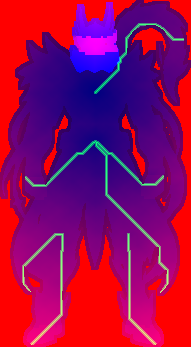
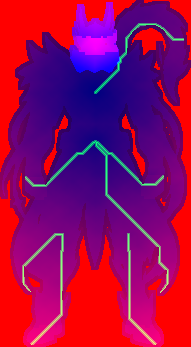
Rexonance skin: the face closes in one motion (head field spread by rank)
The head's growth field had two empty value bands (the rows the face
fills carry almost no shell cells; the face's closure started near 0.76,
not at SKIN_FACE_FROM), so the liquid front swept them with nothing to
cover: the jaw finished, a hold, the skull; the shell finished, a hold,
the face. Each head segment's values are now spread by rank (order and
isolines kept, start and seam unchanged), the face picking up at the
value the shell ends on. Re-baked field.png and the HUD marks (HEAD
1429 -> 1451 ms entry, 0.632 -> 0.643 scroll). The scroll swarm's
last-flock probe moves 0.68 -> 0.67 (the visor flocks dock with the
skin's front, now a little earlier).

Changed region(s): [[0.3665, 0.0288, 0.6021, 0.1153], [0.3665, 0.1153, 0.6283, 0.2017]]

diff --git a/src/lib/rexonance-suit-skin-field.ts b/src/lib/rexonance-suit-skin-field.ts
@@ -205,6 +205,28 @@ const HAND_FOOT_OFFSET = 0.04;
  * over the rest. */
 export const SKIN_FACE_FROM = 0.72;
 
+/** Spreads the head's shell values evenly over [their min, SKIN_FACE_FROM]
+ * and the face's over [SKIN_FACE_FROM, their max], each by rank (see the
+ * call in buildSkinField). In place; ties keep the cells' own order. */
+function evenHeadField(
+  field: Float32Array,
+  head: ArrayLike<number>,
+  region: ArrayLike<number>,
+  face: number,
+) {
+  for (const isFace of [false, true]) {
+    const cells: number[] = [];
+    for (let i = 0; i < field.length; i += 1)
+      if (head[i] && field[i] >= 0 && (region[i] === face) === isFace) cells.push(i);
+    if (cells.length < 2) continue;
+    cells.sort((a, b) => field[a] - field[b] || a - b);
+    const lo = isFace ? SKIN_FACE_FROM : field[cells[0]];
+    const hi = isFace ? Math.max(field[cells[cells.length - 1]], SKIN_FACE_FROM) : SKIN_FACE_FROM;
+    const last = cells.length - 1;
+    for (let k = 0; k <= last; k += 1) field[cells[k]] = lo + ((hi - lo) * k) / last;
+  }
+}
+
 /** Bakes the growth field (see the header). Pure: typed arrays in and out. */
 export function buildSkinField(input: SkinFieldInput): SkinBake {
   const { w, h, alpha } = input;
@@ -483,6 +505,20 @@ export function buildSkinField(input: SkinFieldInput): SkinBake {
     // The seed itself is the front's first cell.
     field[i] = Math.min(1, Math.max(0, t));
   }
+
+  // The head closes as one motion (owner, 2026-11-21: 「レクソナンスの顔は上下
+  // が完成してから僅かに間が空く…シームレスに顔が完成していない」). The shell's
+  // rise is by row over the whole head, but the rows the face fills carry
+  // almost no shell cells, so the shell's values had a hole (~0.27–0.36:
+  // the jaw done, nothing, then the skull); and the face's closure started
+  // near 0.76, not at SKIN_FACE_FROM (the shell done, nothing, then the
+  // face). The front sweeps those empty values at its own pace, so the
+  // coverage stood still twice. Each segment's values are now spread by
+  // rank: the order is kept (no cell overtakes another, so every moment's
+  // edge is one of the same isolines, fingering and all), only the spacing
+  // is even, and the face takes over at exactly the value the shell ends
+  // on. The start and the seam's last cell (which the eyes wait for) stay.
+  evenHeadField(field, head, region, SKIN_REGION.face);
 
   // The texture, RGB (an opaque picture: a browser must never premultiply
   // it): R the field dithered to 8 bits, G the veins, B the armour's mask

diff --git a/src/lib/rexonance-suit-skin-marks.ts b/src/lib/rexonance-suit-skin-marks.ts
@@ -5,9 +5,9 @@
 
 /** Where the front reaches each of the HUD's parts: the middle of the
  * part's own plates on the growth field (the helmet's on the head's). */
-export const SKIN_PART_REACH = { LEGS: 0.505, ARMS: 0.366, CHEST: 0.178, WAIST: 0.193, TAIL: 0.469, HEAD: 0.439 } as const;
+export const SKIN_PART_REACH = { LEGS: 0.505, ARMS: 0.366, CHEST: 0.178, WAIST: 0.193, TAIL: 0.469, HEAD: 0.546 } as const;
 /** When the front's lip is there in the entry (the call's canonical ms). */
-export const SKIN_ENTRY_PARTS = { LEGS: 743, ARMS: 661, CHEST: 559, HEAD: 1429 } as const;
+export const SKIN_ENTRY_PARTS = { LEGS: 743, ARMS: 661, CHEST: 559, HEAD: 1451 } as const;
 /** And in the scroll scene (its progress), in the HUD's order
  * (rexonance-resonance.js ASSEMBLY_PARTS). */
-export const SKIN_SCROLL_PARTS = [0.332, 0.28, 0.212, 0.217, 0.319, 0.632] as const;
+export const SKIN_SCROLL_PARTS = [0.332, 0.28, 0.212, 0.217, 0.319, 0.643] as const;
